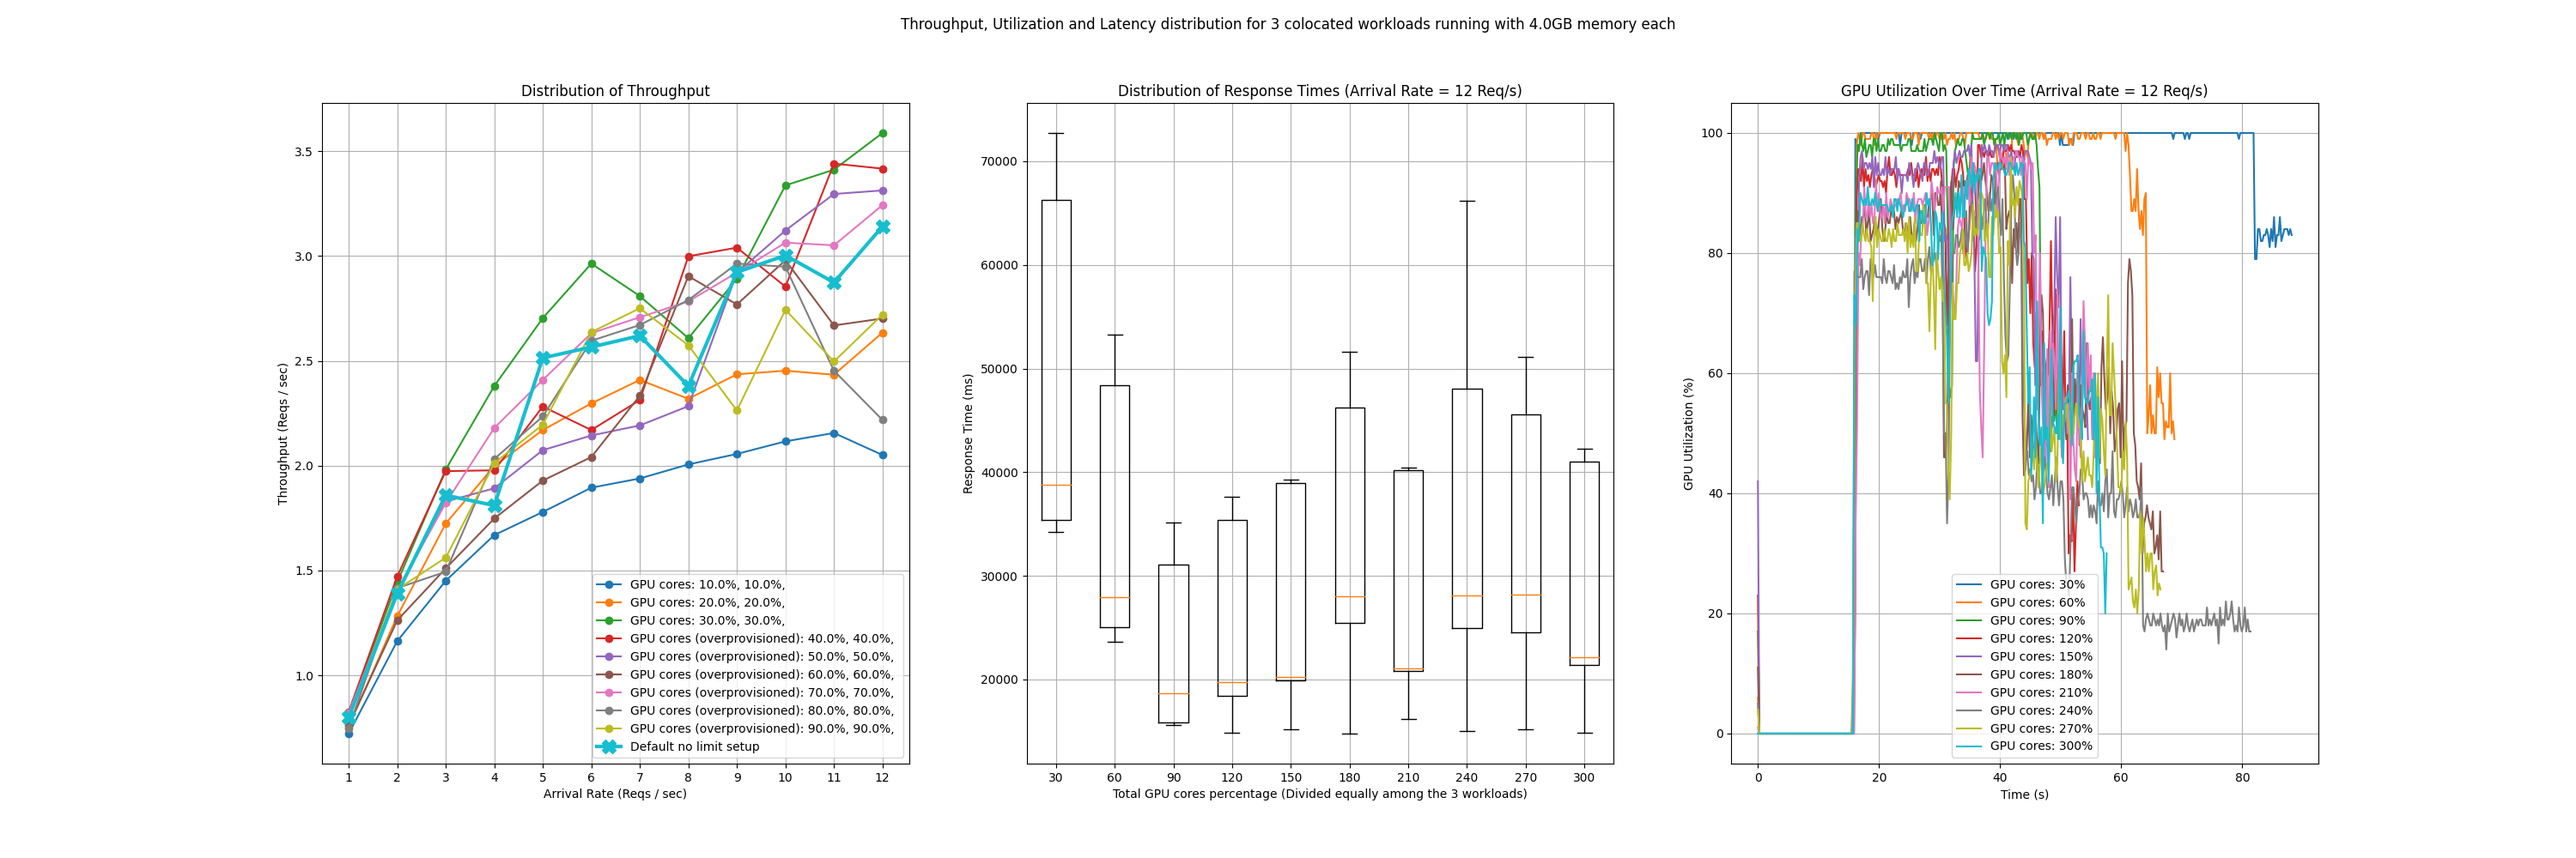
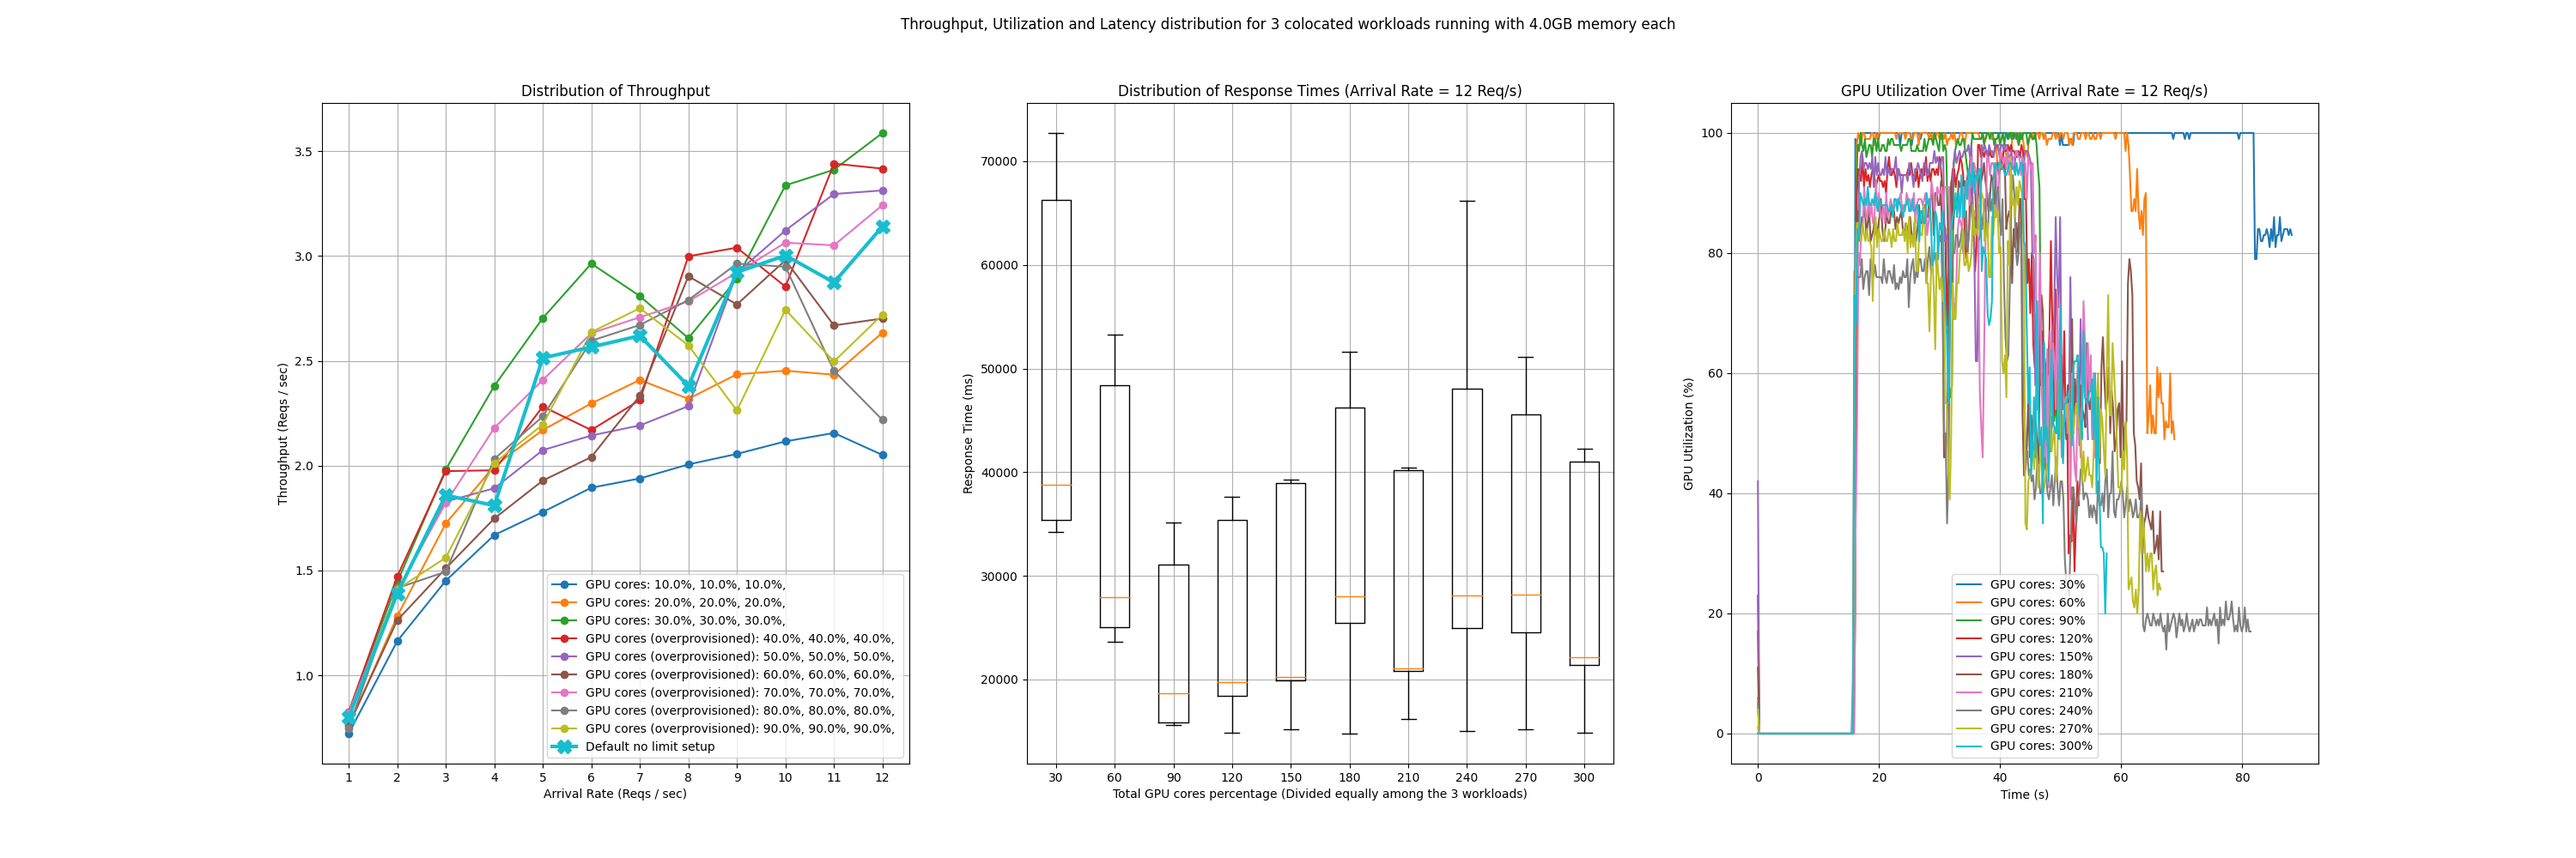
fixed plots

Changed region(s): [[0.217, 0.651, 0.341, 0.899]]

diff --git a/profiler/colocation/intervals/samsum-1-12GB/samsum-1-12GB.py b/profiler/colocation/intervals/samsum-1-12GB/samsum-1-12GB.py
@@ -231,9 +231,10 @@ if __name__ == "__main__":
         [Pod(12, 90)],   # 12, 90
         [Pod(12, 100)],   # 12, 100
     ]
-    load = [1, 2, 3, 4, 5, 6, 7, 8, 9, 10, 11, 12]
+    # load = [1, 2, 3, 4, 5, 6, 7, 8, 9, 10, 11, 12]
+    load = [10]
     num_colocation = 1
-    file_name = "samsum-1-12GB.csv"
+    file_name = "samsum-1-12GB-nsight.csv"
 
     s = ""
     for ind in range(1, num_colocation+1):

diff --git a/profiler/colocation/intervals/samsum-3-12GB/plot-samsum-3-12GB.py b/profiler/colocation/intervals/samsum-3-12GB/plot-samsum-3-12GB.py
@@ -25,7 +25,7 @@ plt.subplot(1, 3, 1)
 for com in compute_values:
     subset = data[(data["compute"] == com) & (data["memory"] == memory)]
     s = ""
-    for ind in range(1, num_colocation):
+    for ind in range(1, num_colocation+1):
         s += f"{com/num_colocation}%, "
 
     if com == num_colocation*100:

diff --git a/profiler/colocation/intervals/samsum-4-12GB/plot-samsum-4-12GB.py b/profiler/colocation/intervals/samsum-4-12GB/plot-samsum-4-12GB.py
@@ -25,7 +25,7 @@ plt.subplot(1, 3, 1)
 for com in compute_values:
     subset = data[(data["compute"] == com) & (data["memory"] == memory)]
     s = ""
-    for ind in range(1, num_colocation):
+    for ind in range(1, num_colocation+1):
         s += f"{com/num_colocation}%, "
 
     if com == num_colocation*100:
